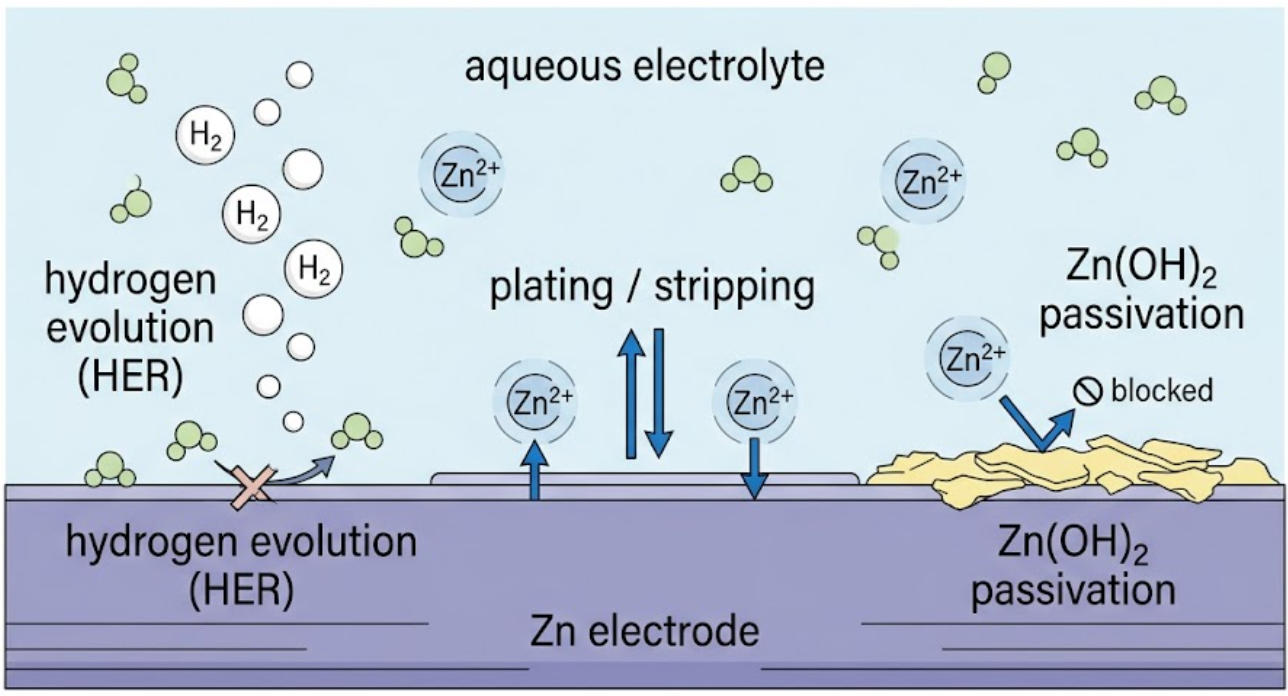
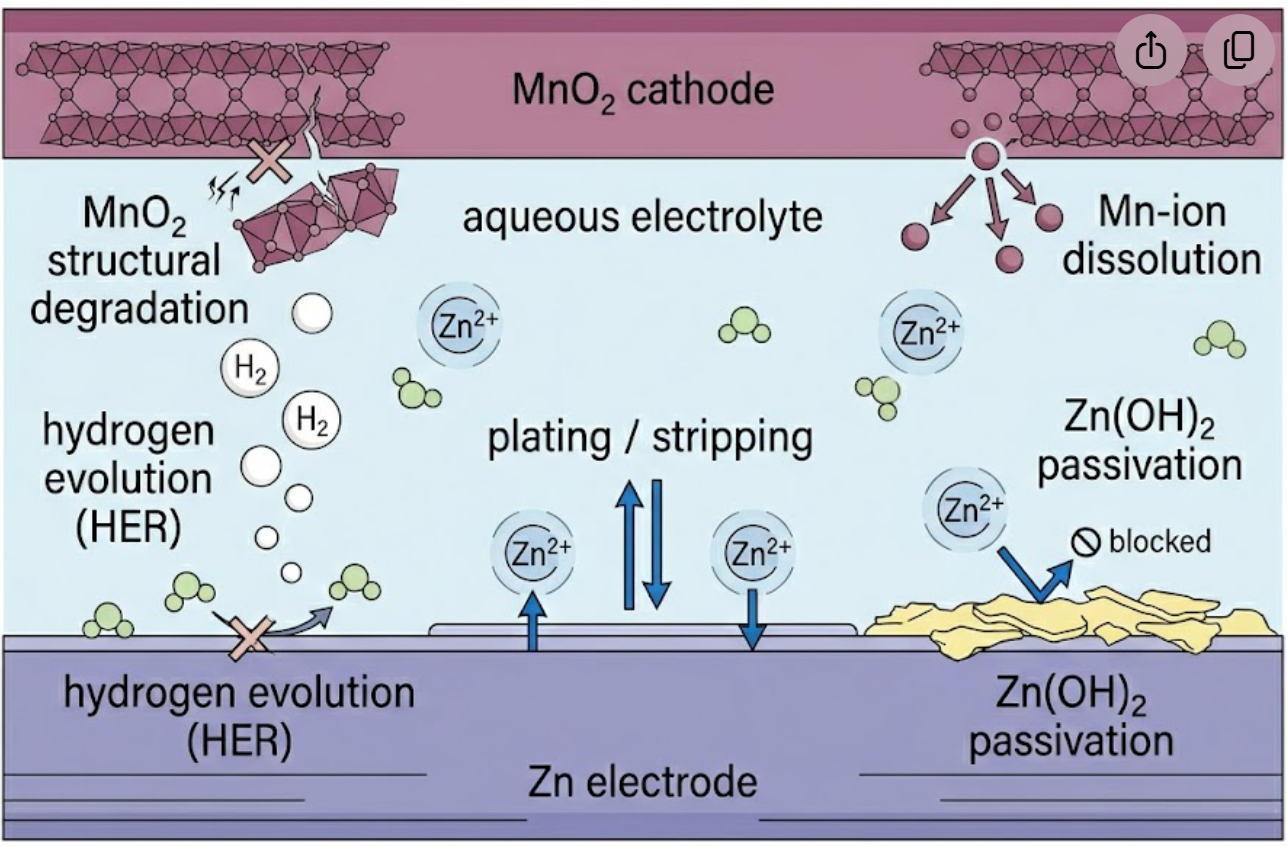
ffdd

diff --git a/index.md b/index.md
@@ -30,7 +30,7 @@ title: Home
     <figcaption class="feature-caption">In aqueous zinc electrolytes, reversible plating competes with hydrogen evolution and hydroxide precipitation.</figcaption>
   </figure>
   <h3>Zinc-ion batteries</h3>
-  <p>A low-cost, water-based alternative with inherent safety advantages. We study interphase formation in aqueous zinc electrolytes, where managing side reactions such as hydrogen evolution and zinc hydroxide precipitation is critical to achieving reversible cycling. Built around an abundant zinc-metal anode and a non-flammable aqueous electrolyte, these cells are well suited to stationary and grid-scale storage, where cost and safety outweigh energy density. The same water that makes them safe can also be reduced at the anode to evolve hydrogen, raising the local pH and precipitating passivating zinc hydroxide. By tailoring electrolyte composition we suppress these side reactions and steer zinc plating toward high, reversible Coulombic efficiency.</p>
+  <p>A low-cost, water-based alternative with inherent safety advantages. We study interphase formation in aqueous zinc electrolytes, where managing side reactions such as hydrogen evolution and zinc hydroxide precipitation is critical to achieving reversible cycling. Built around an abundant zinc-metal anode and a non-flammable aqueous electrolyte, these cells are well suited to stationary and grid-scale storage, where cost and safety outweigh energy density. The same water that makes them safe can also be reduced at the anode to evolve hydrogen, raising the local pH and precipitating passivating zinc hydroxide. By tailoring electrolyte composition we suppress these side reactions and steer zinc plating toward high, reversible Coulombic efficiency. On the cathode side, manganese dioxide (MnO₂) is among the most studied hosts, but it brings its own difficulties. During discharge, reduction of Mn⁴⁺ generates Jahn–Teller-active Mn³⁺ that disproportionates and dissolves manganese into the electrolyte, gradually eroding the active material and fading capacity. Repeated (de)insertion of Zn²⁺ — often accompanied by competing H⁺ insertion and the growth of zinc-hydroxide byproducts — drives structural rearrangement and an intricate, still-debated charge-storage mechanism. Combined with the sluggish solid-state diffusion of divalent Zn²⁺, these effects limit rate capability and long-term cycling stability.</p>
 </div>
 
 <div class="feature">